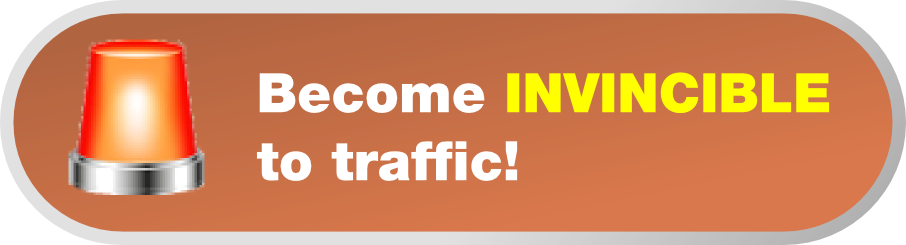
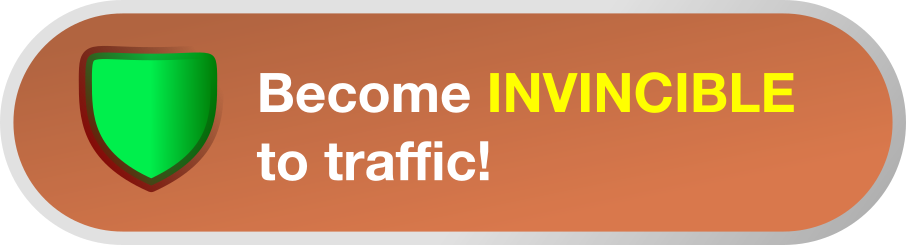
Update tutorial graphics

Changed region(s): [[0.0618, 0.1429, 0.2472, 0.8], [0.2781, 0.2857, 0.9272, 0.4857], [0.2781, 0.5714, 0.5872, 0.7429]]

diff --git a/AMBTutorial.m b/AMBTutorial.m
@@ -86,7 +86,7 @@
                 
             case TutorialStateStep04:
                 if (event == PlayerEventSlowDown) {
-                    [self swapTextureTo:sTutorialYellowArrow afterDelay:0.5];
+                    [self swapTextureTo:sTutorialMinimap afterDelay:0.5];
                     _tutorialState = TutorialStateStep05;
                 }
 
@@ -204,7 +204,7 @@
         sTutorialSwipe = [tutorialAtlas textureNamed:@"tutorial_swipe"];
         sTutorialSwipeAndHold = [tutorialAtlas textureNamed:@"tutorial_swipe-and-hold"];
         sTutorialTapAndHold = [tutorialAtlas textureNamed:@"tutorial_tap-and-hold"];
-        sTutorialYellowArrow = [tutorialAtlas textureNamed:@"tutorial_yellow-arrow"];
+        sTutorialMinimap = [tutorialAtlas textureNamed:@"tutorial_minimap"];
         sTutorialWhiteArrow = [tutorialAtlas textureNamed:@"tutorial_white-arrow"];
         sTutorialFuel = [tutorialAtlas textureNamed:@"tutorial_fuel"];
         sTutorialInvincibility = [tutorialAtlas textureNamed:@"tutorial_invincibility"];
@@ -223,7 +223,7 @@ static SKTexture *sTutorialStartAndStop = nil;
 static SKTexture *sTutorialSwipe = nil;
 static SKTexture *sTutorialSwipeAndHold = nil;
 static SKTexture *sTutorialTapAndHold = nil;
-static SKTexture *sTutorialYellowArrow = nil;
+static SKTexture *sTutorialMinimap = nil;
 static SKTexture *sTutorialWhiteArrow = nil;
 static SKTexture *sTutorialFuel = nil;
 static SKTexture *sTutorialInvincibility = nil;
